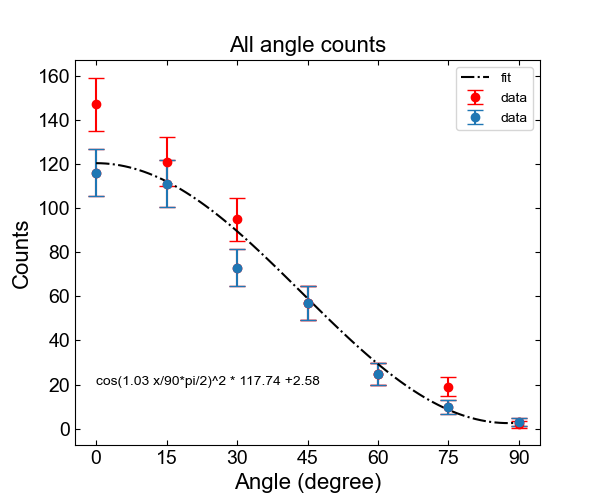
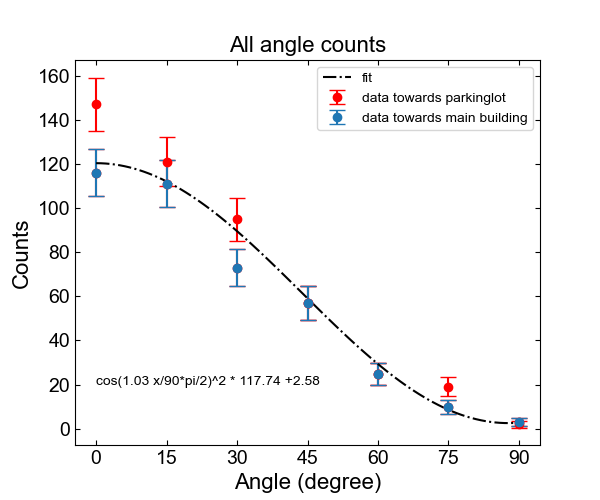
legends rettet

Changed region(s): [[0.54, 0.12, 0.87, 0.27]]

diff --git a/Databehandling etage.py b/Databehandling etage.py
@@ -77,14 +77,14 @@ ux,uy = x[1],195
 uyl = uy ** 0.5
 
 ax.errorbar(ux,uy,uyl, fmt="o", ms=6, capsize= 3, label = "data outside",color= 'r')
-ax.errorbar(x, y, yler, fmt="o", ms=6, capsize= 3, label = "data")
+ax.errorbar(x, y, yler, fmt="o", ms=6, capsize= 3, label = "data at different altitudes")
 ax.plot(xhelp1, funlin(xhelp1, *popt), 'k-.', label = "fit")
 ax.text(0,150,'f(x) = exp('+str(6e-4)+'x)'+str(round(popt[0],2))+'+'+str(round(popt[2],2)),fontsize='x-large')
 ax.set_ylabel("Counts")
 ax.set_xlabel("Altitude (cm)")
 ax.set_xticks(ticks = np.linspace(0, 3200, 5))
 ax.set_title("Counts as a function of altitude")
-
+ax.legend(loc = 'lower right')
 ax.grid()
 
 plt.savefig('etager')

diff --git a/Databehandling_vinkler.py b/Databehandling_vinkler.py
@@ -133,8 +133,8 @@ print('kombinerede usikkerheder:',perr)
 chmin = np.sum(((y-funlin(x, *popt))/yler)**2)
 print('chi2:',chmin,' ---> p:', ss.chi2.cdf(chmin,4))
 
-ax1.errorbar(xc, yc, ylerc, fmt="o", ms=6, capsize= 6, label = "data",color = 'r')
-ax1.errorbar(x, y, yler, fmt="o", ms=6, capsize= 6, label = "data")
+ax1.errorbar(xc, yc, ylerc, fmt="o", ms=6, capsize= 6, label = "data towards parkinglot",color = 'r')
+ax1.errorbar(x, y, yler, fmt="o", ms=6, capsize= 6, label = "data towards main building")
 ax1.plot(xhelp1, funlin(xhelp1, *popt), 'k-.', label = "fit")
 ax1.legend()
 ax1.set_ylabel("Counts")
